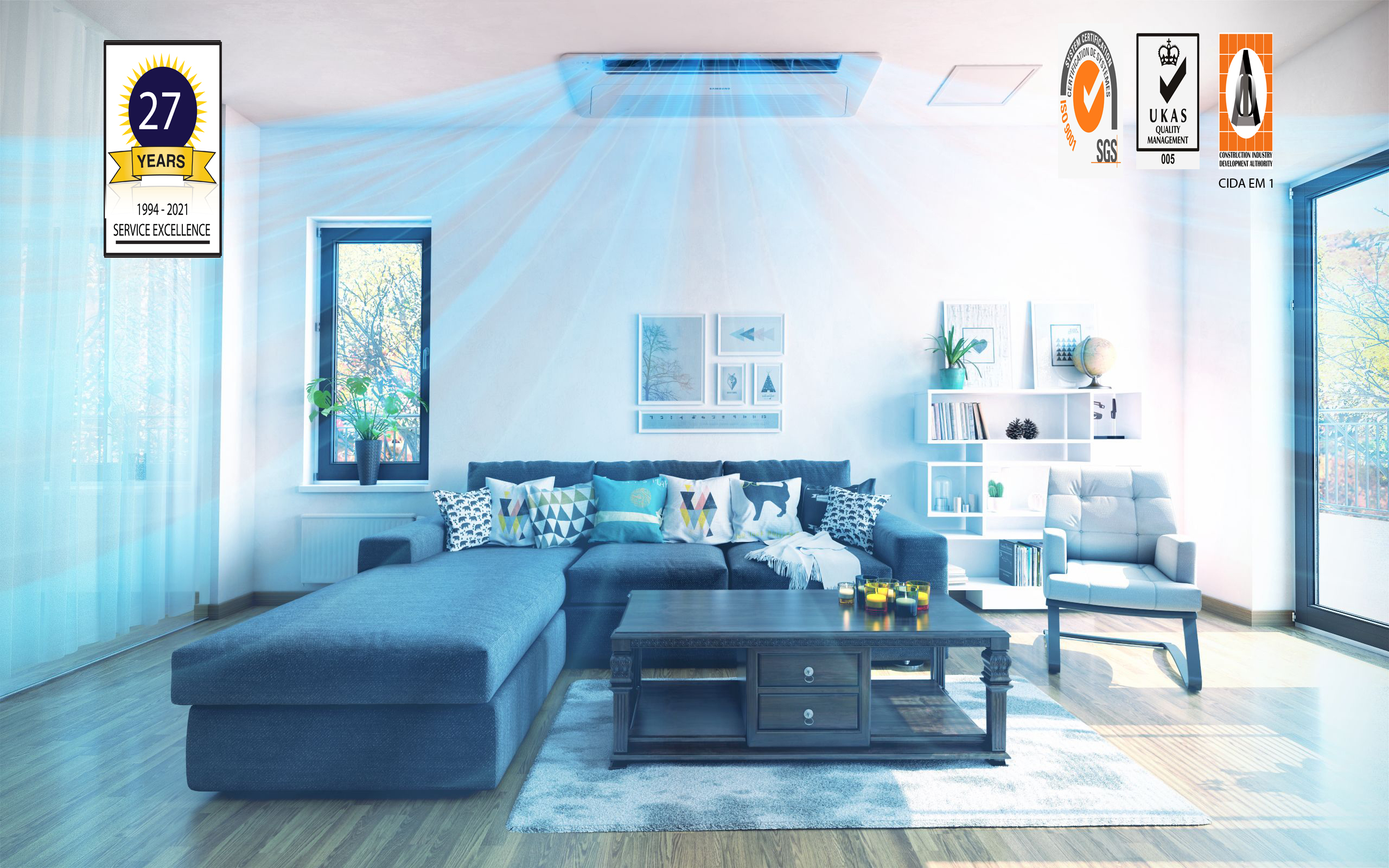
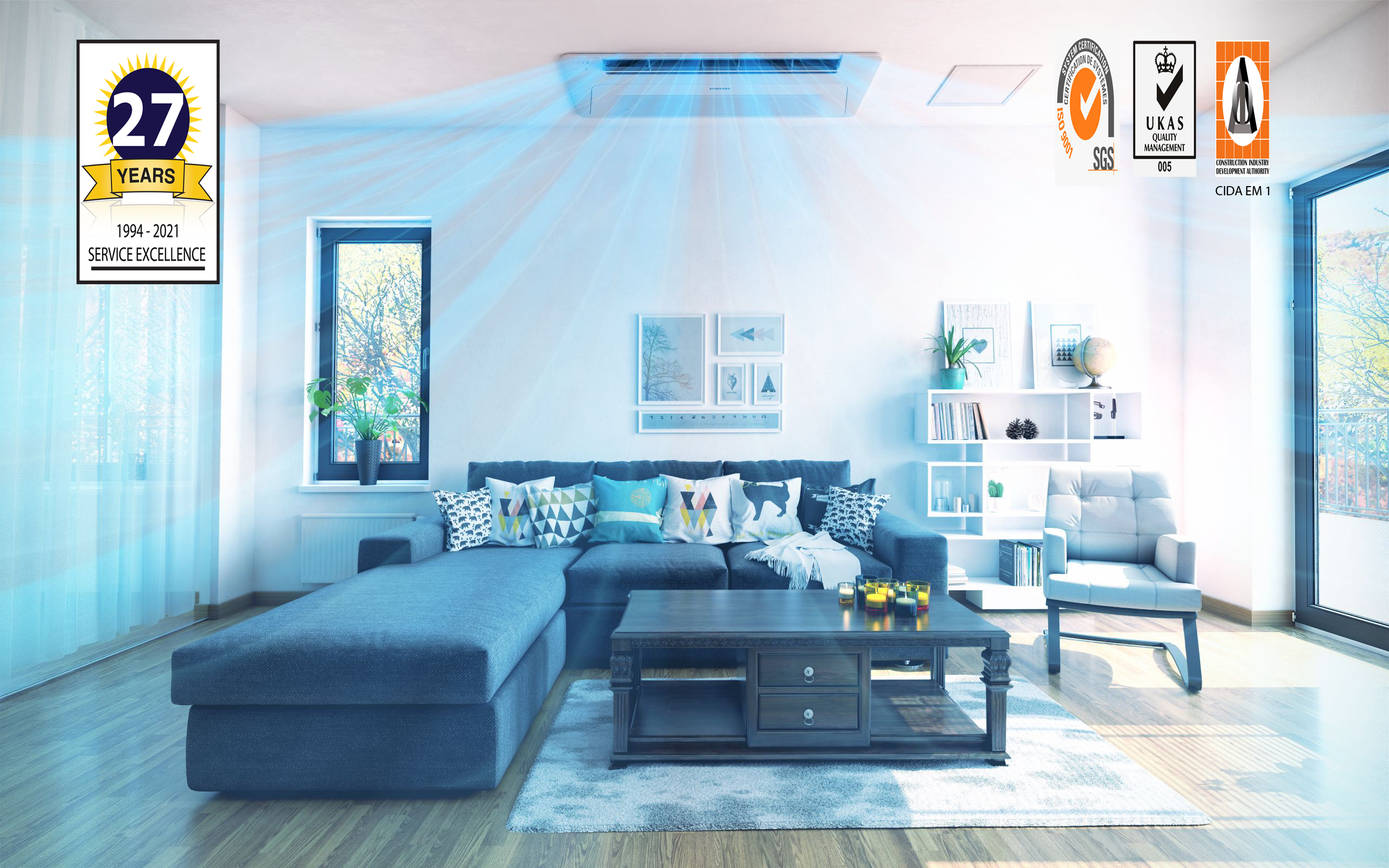
CHG|main image excellent

Changed region(s): [[0.0312, 0.0312, 0.1875, 0.3438], [0.75, 0.0312, 0.9375, 0.2188]]

diff --git a/about.html b/about.html
@@ -96,7 +96,7 @@ position: relative;
 
                                     <div class="wprt-spacer" data-desktop="36" data-mobi="30" data-smobi="30"></div>
 
-                                    <p class="text-center">Built-Mech Services obtained its legal prerogative to commence business in MVAC field as far back as 1994. We were the minnows then, to join the cluster of giants in the trade backed by several years of business experience. We started our business with only 03 persons and we look back with joy and reminiscence that these 3 persons are still in the active service of the company for the last 26 years.<br> 
+                                    <p class="text-center">Built-Mech Services obtained its legal prerogative to commence business in MVAC field as far back as 1994. We were the minnows then, to join the cluster of giants in the trade backed by several years of business experience. We started our business with only 03 persons and we look back with joy and reminiscence that these 3 persons are still in the active service of the company for the last 27 years.<br> 
 Our journey was not rosy and our sheer determination and self-confidence brought us where we are today. The business world was turning fast and we had to keep pace, otherwise we would have been thrown to a way side long time back. Now we are studded with technical personnel with high caliber, fleet of vehicles for transport needs, inter active communication system, administrators with above average knowledge and experience who could be entrusted with any project of any magnitude. Giant AC project, Lanka Hospitals, Central Bank of Sri Lanka, Benthota Beach Hotel, MAS Holdings among others trail behind us as land marks of our reputation in this field. Projects we have completed overseas in Bangladesh, Vietnam and Qatar confirm our versatility and our adaptability to conditions local and overseas. <br>
 We have proudly trumped over incredible odds using extraordinary strength and stability. We navigated the rough waters of global economy and by standing true to its valued ethos and maintained standards of quality and efficiency at all times. As a long player in the industry, Built-Mech Services realized the importance of comport, durability and bounteous technique introduced through materials and equipment to satisfy customer satisfaction and needs.  <br>
 We are proud authorized dealer for world top brand air conditioners viz. “Carrier” “Midea” “Dunhambush” “ Toshiba” “ Hitachi” “Kingsun” enabling us to satisfy any customer needs. Also, we are ISO certified and enjoy electro Mechanical Grade One granted by Sri Lanka Government sponsored Construction Industry Development Authority as a bench mark of qualification acceptable for awarding any project.<br>
